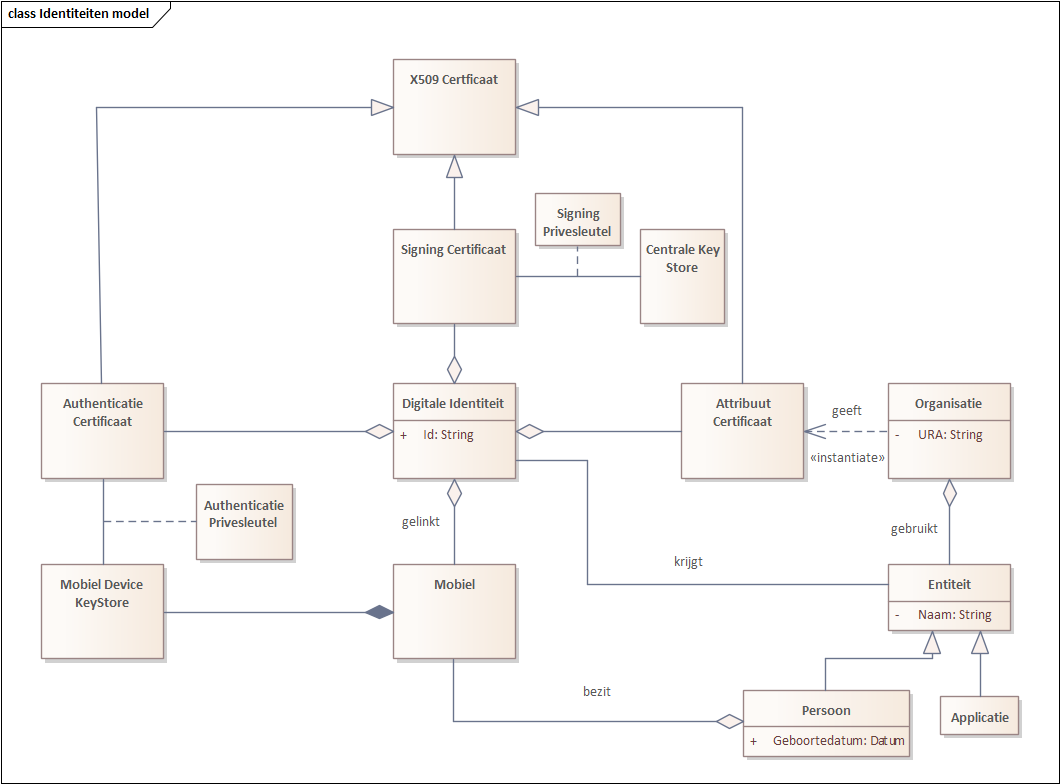
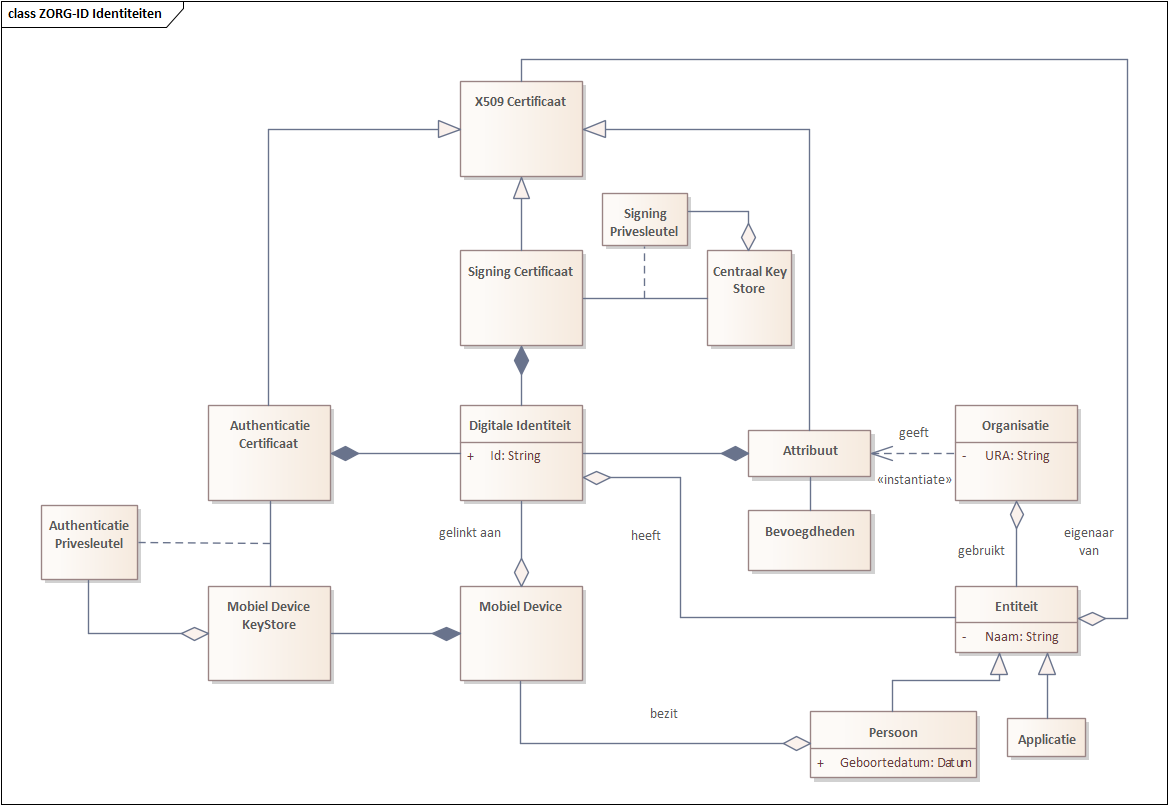
GITBOOK-57: draft [Issue #1]

diff --git a/bedrijfsarchitectuur.md b/bedrijfsarchitectuur.md
@@ -13,7 +13,9 @@ ZORG-ID is een generiek, centraal, veilig en vertrouwd platform voor identificat
 
 ## Positie van ZORG-ID
 
-## Kaders
+## Kaders en richtlijnen
+
+<figure><img src=".gitbook/assets/image (9).png" alt=""><figcaption><p>Richtlijnen voor authenticatie en ondertekenen.</p></figcaption></figure>
 
 * Compliance met wet- en regelgeving: Een PKI-infrastructuur kan helpen bij het voldoen aan andere relevante wetten en regelgeving, zoals de WDO (Wet Digitale Overheid) voor het veilig en betrouwbaar kunnen inloggen en eIDAS (electronic IDentification And trust Services) voor internationale interoperabiliteit.&#x20;
 * Het kunnen intrekking van toegangsrechten: PKI maakt het mogelijk om snel en effectief toegangsrechten in te trekken door het intrekken van digitale certificaten, wat bijdraagt aan NEN7512 waar specifieke eisen worden gesteld aan het intrekken van toegangsrechten bij hoog-risico-informatiesystemen.
@@ -33,9 +35,15 @@ ZORG-ID is een generiek, centraal, veilig en vertrouwd platform voor identificat
   * Herstelmaatregelen (Art. 15)
 * De WDO (Wet Digitale Overheid) is een zogeheten kaderwet en regelt algemene principes, verantwoordelijkheden en procedures, maar geen gedetailleerde regels.&#x20;
 * Verplichtingen standaarden voor veiligheid (Art3. WDO) . Grondslag voor het gebruik van beveiligde verbinding met overheids websites en -webapplicaties.  HTTPS-configuraties moeten voldoen aan de TLS-richtlijnen en web applicatie richtlijnen van het Nationaal Cyber Security Centrum (NCSC).
-* eIDAS richtlijnen, zie de eIDAS uitvoeringsverordening 2015/1502 over betrouwbaarheidsniveaus, de cybersecurity- en ontwerp verordening. Ook dient rekening te worden gehouden met aanpalende kaders zoals de Algemene Verordening Gegevensbescherming (AVG). Hoewel eIDAS niets zegt over de vorm van ZORG-ID, zal dit in de praktijk neerkomen op een mobiele applicatie (Smartphone) die kan worden gebruikt als nationale elektronische identiteit, zowel online als offline, voor allerlei zorg diensten. ZORG-ID ontvangen hun inhoud van gecertificeerde authentieke bronnen en attribuutproviders. Vertrouwende partijen moeten geregistreerd zijn, zodat ZORG-ID de authenticiteit kan verifiëren. Alle actoren in het ZORG-ID ecosysteem moeten voldoen aan de technische architectuur, standaarden, referenties en richtlijnen voor het implementeren van eWallets, zoals gesteld in de eIDAS ontwerpverordening. Hier enkele vertaalde eisen. De Engelstalige teksten zijn echter leidend:
+* eIDAS richtlijnen, zie de eIDAS verordening 910/2014 en uitvoeringsverordening 2015/1502 over regulering van authenticatie en ondertekening in Europa, de betrouwbaarheidsniveaus, de cybersecurity- en ontwerp verordening. Ook dient rekening te worden gehouden met aanpalende kaders zoals de Algemene Verordening Gegevensbescherming (AVG). Hoewel eIDAS niets zegt over de vorm van ZORG-ID, zal dit in de praktijk neerkomen op een mobiele applicatie (Smartphone) die kan worden gebruikt als nationale elektronische identiteit, zowel online als offline, voor allerlei zorg diensten. ZORG-ID ontvangen hun inhoud van gecertificeerde authentieke bronnen en attribuutproviders. Vertrouwende partijen moeten geregistreerd zijn, zodat ZORG-ID de authenticiteit kan verifiëren. Alle actoren in het ZORG-ID ecosysteem moeten voldoen aan de technische architectuur, standaarden, referenties en richtlijnen voor het implementeren van eWallets, zoals gesteld in de eIDAS ontwerpverordening. Hier enkele vertaalde eisen. De Engelstalige teksten zijn echter leidend:
 
 <table><thead><tr><th width="138">Bron</th><th>Eis</th></tr></thead><tbody><tr><td>Art. 6a (3)</td><td><p>Met Europese digitale identiteitsportemonnees kan de gebruiker: </p><p>(a) veilig opvragen en verkrijgen, opslaan, selecteren, combineren en delen, op een manier die transparant is voor en herleidbaar is voor de gebruiker, van de noodzakelijke identificatiegegevens van rechtspersonen en elektronische attesteringen van attributen om online en offline te authentiseren om online te gebruiken openbare en particuliere diensten;</p><p>(b) ondertekenen door middel van gekwalificeerde elektronische handtekeningen.</p></td></tr><tr><td>Art. 6a (4a)</td><td><p>Digitale identiteitsportemonnees bieden een generieke interface: </p><p>(1) aan gekwalificeerde en niet-gekwalificeerde vertrouwens-diensten die gekwalificeerde en niet-gekwalificeerde elektronische attesteringen van attributen of andere gekwalificeerde en niet-gekwalificeerde certificaten afgeven met het oog op de afgifte van dergelijke attesteringen en certificaten aan de European Digital Identity Wallet </p><p>(2) voor vertrouwende partijen om persoonsidentificatiegegevens en elektronische attesteringen van attributen op te vragen en te valideren </p><p>(3) voor de presentatie aan vertrouwende partijen van persoonsidentificatiegegevens, elektronische attestering van attributen of andere gegevens zoals inloggegevens, in lokale modus zonder internettoegang voor de portemonnee</p><p> (4) voor de gebruiker om interactie met de European Digital Identity Wallet mogelijk te maken en een "EU Digital Identity Wallet Trust Mark" te tonen</p></td></tr><tr><td>Art. 6a (4b)</td><td>Zekerstellen dat vertrouwensdiensten van gekwalificeerde attesteringen van attributen geen informatie kunnen ontvangen over het gebruik van deze attributen.</td></tr><tr><td>Art. 6a (4c)</td><td>Voldoen aan de vereisten van Artikel8 met betrekking tot het betrouwbaarheidsniveau "hoog", met name zoals toegepast op de vereisten voor identiteitsbewijs en -verificatie, en beheer en authenticatie van elektronische identificatiemiddelen.</td></tr><tr><td>Art. 6a (4d)</td><td>Zorgen voor een mechanisme om ervoor te zorgen dat de vertrouwende partij de gebruiker kan authentiseren en elektronische attesteringen van attributen kan ontvangen.</td></tr><tr><td>Art. 6a (4e)</td><td>Ervoor zorgen dat bedoelde persoonsidentificatiegegevens op unieke en duurzame wijze de natuurlijke of rechtspersoon vertegenwoordigen die ermee in verband wordt gebracht.</td></tr><tr><td>Art. 6a (7)</td><td>Persoonsgegevens met betrekking tot de levering van Europese digitale identiteitsportemonnees worden fysiek en logisch gescheiden van alle andere gegevens bewaard.</td></tr></tbody></table>
+
+* Conformiteitsbeoordeling en toetsing aan relevante European Telecommunication Standard Institute (ETSI) normen en eisen, zoals:
+  * handtekening certificaten opgebouwd volgens het Qualified Certificate Profile
+  * op tokens gebaseerde authenticatie en autorisatie waarbij ZORG-ID identiteiten biedt met ondertekening functionaliteit (NEN-EN 419241 - Betrouwbare systemen die server ondertekening ondersteunen)
+  * Attributen geformatteerd als attribuutcertificaten  (NEN-ISO 17090-1:2021)
+  * Ondertekenen met behulp van een centraal opgeslagen sleutel door een gedecentraliseerd autorisatie mechanisme met behulp van een mobiel device (TS 119 432 SCAL2)
 
 ## Scenario's
 
@@ -52,8 +60,6 @@ De volgende ZORG-ID Smart scenario's zijn uitgewerkt:
 ## Use-cases
 
 De volgende Use cases zijn op ZORG-ID Smart gericht.
-
-
 
 #### Eindgebruikers (End User)
 
@@ -81,12 +87,72 @@ De use-cases voor backoffice-administratie van zorgorganisaties betreffende het 
 
 <table><thead><tr><th>Use-case</th><th width="213">Omschrijving</th><th>Betrokken actoren</th></tr></thead><tbody><tr><td>ZID-UC-HA-001</td><td>Authenticatie</td><td><ul><li>Organisatie beheerder</li><li>Organisatie operator</li></ul></td></tr><tr><td>ZID-UC-HA-002</td><td>Inschrijven Organisatie beheerder</td><td><ul><li>Organisatie beheerder</li></ul></td></tr><tr><td>ZID-UC-HA-003</td><td>Uitschrijven Organisatie beheerder</td><td><ul><li>Organisatie beheerder</li></ul></td></tr><tr><td>ZID-UC-HA-004</td><td>Inschrijven Organisatie aanvraag</td><td><ul><li>Organisatie beheerder</li></ul></td></tr><tr><td>ZID-UC-HA-005</td><td>Uitschrijven Organisatie aanvraag</td><td><ul><li>Organisatie beheerder</li></ul></td></tr><tr><td>ZID-UC-HA-006</td><td>Inschrijven Organisatie operator</td><td><ul><li>Organisatie beheerder</li></ul></td></tr><tr><td>ZID-UC-HA-007</td><td>Uitschrijven Organisatie operator</td><td><ul><li>Organisatie beheerder</li></ul></td></tr><tr><td>ZID-UC-HA-008</td><td>Inschrijven gebruiker</td><td><ul><li>Organisatie operator</li><li>Zorgmedewerker</li></ul></td></tr><tr><td>ZID-UC-HA-009</td><td>Uitschrijven gebruiker</td><td><ul><li>Organisatie operator</li></ul></td></tr><tr><td>ZID-UC-HA-010</td><td>Koppel gebruiker aan organisatie</td><td><ul><li>Organisatie operator</li></ul></td></tr><tr><td>ZID-UC-HA-011</td><td>Ontkoppel gebruiker van organisatie</td><td><ul><li>Organisatie operator</li></ul></td></tr><tr><td>ZID-UC-HA-012</td><td>Ken attribuut toe aan gebruiker</td><td><ul><li>Organisatie operator</li></ul></td></tr><tr><td>ZID-UC-HA-013</td><td>Trek attribuut in van gebruiker</td><td><ul><li>Organisatie operator</li></ul></td></tr></tbody></table>
 
-
-
-
-
 ## Bedrijfsobjecten
 
+Het objectmodel voor ZORG-ID identificeert welke concepten relevant zijn voor ZORG-ID en het beschrijft de relaties tussen de objecten. Het figuur hieronder is een grafische weergave van de concepten en hun relaties. Achter het model staan de definities van de objecten beschreven.
 
+<figure><img src=".gitbook/assets/image (5).png" alt=""><figcaption><p>Bedrijfsobjecten van ZORG-ID</p></figcaption></figure>
+
+| Object                        | Omschrijving                                                                                                                                                                                                                                                                                                                                                                                                                                |
+| ----------------------------- | ------------------------------------------------------------------------------------------------------------------------------------------------------------------------------------------------------------------------------------------------------------------------------------------------------------------------------------------------------------------------------------------------------------------------------------------- |
+| X509 Certificaat              | Een X.509-certificaat is een digitaal certificaat dat de internationale erkende X.509 infrastructuurnorm voor PKI gebruikt om te verifiëren dat een publieke sleutel toebehoort aan een Entiteit, of dat een verklaring (attribuut) toebehoort aan een Entiteit. Een X.509-certificaat bevat informatie van de Digitale Identiteit aan welke Entiteit het certificaat is uitgegeven of aan welke Entiteit de verklaring van toepassing is.  |
+| Signing Certificaat           | Handtekening (of Onweerlegbaarheid) Certificaat. Een certificaat dat gekoppeld is aan de sleutel die gebruikt moet worden bij het plaatsen van een elektronische handtekening.                                                                                                                                                                                                                                                              |
+| Signing Privésleutel          | De sleutel van een asymmetrisch sleutelpaar, waarmee ondertekend wordt, die alleen bekend dient te zijn bij de houder ervan en strikt geheim moet worden gehouden .Soms wordt de term geheime of persoonlijke sleutel gebruikt.                                                                                                                                                                                                             |
+| Centrale Sleutelopslag        | De centrale sleutelopslag is een sleutelopslag die verantwoordelijk is voor het creëren, beschermen en opslaan van de privésleutel voor ondertekening. De sleutelopslag staat alleen het gebruik van een ondertekeningsleutel toe nadat een 'challenge' is ondertekend door de autorisatiesleutel van de identiteit. Een software systeem dat deze functionaliteit realiseert, wordt een handtekeningactivatiemodule of SAM-module genoemd. |
+| Digitale Identiteit           | Is een verzameling van gegevens (attributen) die een digitale representatie zijn van een Entiteit binnen een bepaald digitaal toepassingsgebied, zoals ZORG-ID                                                                                                                                                                                                                                                                              |
+| Attribuut                     | Een enkelvoudig of samengesteld informatie element dat onderdeel is van een Digitale Identiteit. Is de representatie van een eigenschap van een Entiteit. Een rol, taak zijn eigenschappen van een entiteit en worden als attributen beschouwd.                                                                                                                                                                                             |
+| Bevoegdheid                   | Een toestemming van een Entiteit om toegang te krijgen tot resources of gegevens waarbij voorwaarden worden vastgelegd bij het attribuut van de Digitale Identiteit.                                                                                                                                                                                                                                                                        |
+| Organisatie                   | Een zorgaanbieder.                                                                                                                                                                                                                                                                                                                                                                                                                          |
+| Authenticatie Certificaat     | Een certificaat dat uitsluitend gebruikt dient te worden voor, authenticatie - of elektronische identificatie.                                                                                                                                                                                                                                                                                                                              |
+| Authenticatie Privésleutel    | De sleutel van een asymmetrisch sleutelpaar, waarmee de identiteit van een Entiteit kan worden bevestigd via een publieke sleutel.                                                                                                                                                                                                                                                                                                          |
+| (Mobiel) Device Sleutelopslag | (Mobiele) sleutelopslag van de de privé sleutel (identiteit) van het gebruikte mobiele device. Deze sleutel is alleen bekend bij het mobiel (of de houder van de mobiel).                                                                                                                                                                                                                                                                   |
+| (Mobiel) Device               | Een fysiek (mobiel) apparaat , software of een (geautomatiseerd) proces. Devices hebben een Digitale Identiteit nodig voor informatiebeveiligingsfuncties                                                                                                                                                                                                                                                                                   |
+| Entiteit                      | Een herkenbaar en onderscheidbaar iets dat relevant is voor ZORG-ID en waarbij een Digitale Identiteit kan behoren. Een entiteit kan zowel een fysieke als logische vorm hebben. Er is onderscheid van entiteiten tussen natuurlijke personen, niet-natuurlijke personen en devices.                                                                                                                                                        |
+| Persoon                       | Een persoon van vlees en bloed die rechten en plichten kan hebben.                                                                                                                                                                                                                                                                                                                                                                          |
 
 ## Kwaliteitseisen
+
+Niet-functionele (software) requirements zijn kwaliteitseisen waaraan een systeem moet voldoen. De **ISO-norm 25010** beschrijft de kwaliteitskenmerken van software. Het model voor productkwaliteit onderscheidt acht hoofdcategorieën.&#x20;
+
+* Functionele geschiktheid (Functional suitability). De mate waarin een software product of computersysteem functies levert die voldoen aan de uitgesproken en veronderstelde behoeften, bij gebruik onder gespecificeerde condities.&#x20;
+* Prestatie-efficiëntie (Performance efficiency). De prestaties in verhouding tot de hoeveelheid middelen gebruikt onder genoemde condities.&#x20;
+* Uitwisselbaarheid (Compatibility). De mate waarin een product, systeem of component informatie uit kan wisselen met andere producten, systemen of componenten, en/of het de gewenste functies kan uitvoeren terwijl het dezelfde hard- of software-omgeving deelt.&#x20;
+* Bruikbaarheid (Usability). De mate waarin een product of systeem gebruikt kan worden door gespecificeerde gebruikers om effectief, efficiënt en naar tevredenheid gespecificeerde doelen te bereiken in een gespecificeerde gebruikscontext.&#x20;
+* Betrouwbaarheid (Reliability). De mate waarin een systeem, product of component gespecificeerde functies uitvoert onder gespecificeerde condities gedurende een gespecificeerde hoeveelheid tijd.&#x20;
+* Beveiligbaarheid (Security). De mate waarin een product of systeem informatie en gegevens beschermt zodat personen, andere producten of systemen de juiste mate van gegevenstoegang hebben passend bij hun soort en niveau van autorisatie.&#x20;
+* Onderhoudbaarheid (Maintainability). De mate waarin een product of systeem effectief en efficiënt gewijzigd kan worden door de aangewezen beheerders.&#x20;
+* Overdraagbaarheid (Portability). De mate waarin een systeem, product of component effectief en efficiënt overgezet kan worden van één hardware, software of andere operationele of gebruiksomgeving naar een andere.&#x20;
+
+Voor de ZORG-ID kwaliteitseisen wordt gekeken naar de uitwisselbaarheid, bruikbaarheid, betrouwbaarheid, beveiligbaarheid, onderhoudbaarheid en overdraagbaarheid.&#x20;
+
+### Uitwisselbaarheid - koppelbaarheid (interoperability)
+
+De mate waarin ZORG-ID (vertrouwde) informatie uit kan wisselen met andere trusted parties, en/of het de gewenste functies kan uitvoeren. Dit vereist een standaardisatie tussen (zorg)informatie systemen (XIS). Hiervoor wordt xxxx als normatieve standaard gebruikt. De gegevens zijn in de basis generiek en worden met behulp van profielen uitgebreid en specifieker gemaakt voor een specifieke toepassing. Door de manier waarop profiling wordt toegepast, kunnen er voor een bepaalde basis set een groot aantal verschillende profielen bestaan, afhankelijk van zorgdomein, instelling of leverancier. Om interoperabiliteit te borgen is het van belang dat binnen een bepaalde use case dezelfde profielen gebruikt worden. Hiervoor zullen dienstverleners onderling nadere afspraken moeten maken over de gebruikte profielen, onder de regie van xxx. Daarbij staat het doel van xxx centraal (een optimale ondersteuning van zorgverleners) .
+
+### Bruikbaarheid (usability) - toegankelijkheid (accessibility)&#x20;
+
+De mate waarin ZORG-ID aangeleverde interventies snel en eenvoudig gebruikt kunnen worden door participanten om effectief, efficiënt en naar tevredenheid gespecificeerde doelen te bereiken in een gespecificeerde gebruikscontext. Er moet een ruime keuze van middelen zijn die zorgmedewerker kunnen gebruiken, waar onder die van private partijen.
+
+### Betrouwbaarheid (reliability) - beschikbaarheid (availability)
+
+De mate waarin ZORG-ID gespecificeerde functies uitvoert onder gespecificeerde condities gedurende een gespecificeerde hoeveelheid tijd. Behandelaren willen ZORG-ID in kunnen zetten wanneer het gewenst is en moeten dus dan ook beschikbaar en toegankelijk zijn. Verder is ‘identificatie diefstal’ binnen ZORG-ID niet mogelijk.
+
+### Beveiligbaarheid (security)&#x20;
+
+De mate waarin informatie en gegevens beschermt moet worden zodat (eind)gebruikers, en andere producten de juiste mate van gegevenstoegang hebben passend bij hun soort en niveau van autorisatie. Naast het borgen van kwaliteitscriteria vereist de norm NEN 7510 dat informatiebeveiligingsmaatregelen op controleerbare wijze zijn ingericht voordat kan worden gesproken over adequate informatiebeveiliging. Alleen die gegevens gebruiken wat minimaal nodig is voor de doeleinden waarvoor zij verwerkt worden.
+
+### Vertrouwelijkheid (Confidentiality)&#x20;
+
+De mate waarin een product of systeem ervoor zorgt dat gegevens alleen toegankelijk zijn voor diegenen die geautoriseerd zijn. Participanten mogen bijvoorbeeld alleen hun eigen gegevens inzien.&#x20;
+
+### Integriteit (Integrity)&#x20;
+
+De mate waarin een systeem, product of component ongeautoriseerde toegang tot of aanpassing van gegevens verhindert. Alleen geregistreerde interventies krijgen toegang tot een ZORG domein en hebben invloed op de activiteitenstatus.&#x20;
+
+### Verantwoording (Accountability)&#x20;
+
+De mate waarin acties van een entiteit getraceerd kunnen worden naar die specifieke entiteit. ZORG-ID genereert log-informatie voor allerlei activiteiten, zoals het registreren of aanpassen van taken, maar ook technische logs met storingen van systemen. De log-informatie van ZORG-ID stelt zorgaanbieders, toezichthouders en cliënten in staat om handelingen te kunnen volgen en naderhand te kunnen controleren. Hiermee moet misbruik eenvoudig ontdekt en opgespoord kunnen worden.
+
+### Onderhoudbaarheid (maintainability)&#x20;
+
+De mate waarin ZORG-ID effectief en efficiënt gewijzigd kan worden door aangewezen beheerders . Dit gaat over de configuratie en beheer van: domeinen, apps (modulair), interacties (functionaliteit), beheerders (identiteit), toegangslog beheer (componenten). Verder moet ZORG-ID flexibel en robuust zijn om toekomstige vragen en belangen rond elektronische identificatie te kunnen adresseren.

diff --git a/informatiesystemen-architectuur.md b/informatiesystemen-architectuur.md
@@ -14,9 +14,7 @@ Deze documentatie heeft als doel het ZORG-ID platform te beschrijven, een servic
 
 Deze architectuur richt zich specifiek op de centraal opgeslagen digitale identiteiten. Door deze benadering wordt een minder kostbare en flexibelere oplossing geboden, vooral in situaties waarin smartcards minder praktisch zijn. Het stelt medische toepassingen in staat om snel en effectief gebruik te maken van de attributen en autorisaties die zijn gekoppeld aan centraal opgeslagen digitale identiteiten.
 
-### Overzicht van het Identiteit en Entiteit model
-
-<figure><img src=".gitbook/assets/image.png" alt=""><figcaption><p>Identiteit en Entiteit model</p></figcaption></figure>
+### Logisch model
 
 
 
@@ -28,5 +26,8 @@ Voor token-gebaseerde authenticatie/autorisatie biedt het systeem identiteiten m
 
 * Volgt de 'NEN-EN 419241 Trustworthy Systems Supporting Server Signing'
 * Maakt gebruik van identiteitsattribuut certificaten voor het ondertekenen van transacties.
-* ...
+
+
+
+
 
